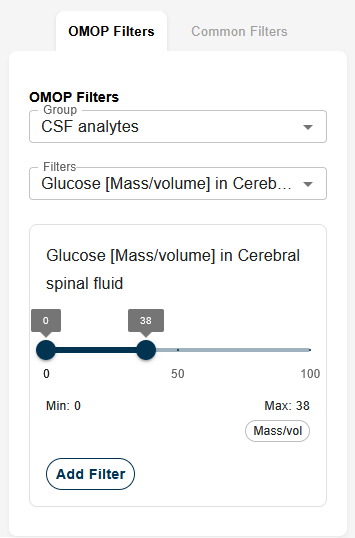
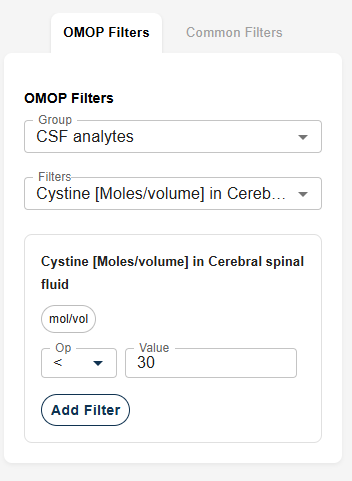
update omop images

diff --git a/src/components/ComponentConfiguration.tsx b/src/components/ComponentConfiguration.tsx
@@ -299,7 +299,7 @@ export default function ComponentConfiguration() {
       <Divider sx={{ my: 3 }} />
 
       <Typography variant="h5" gutterBottom>
-        Troubleshooting (plain language)
+        Troubleshooting
       </Typography>
       <Box component="ul" sx={{ pl: 3, color: "text.secondary" }}>
         <li><strong>I changed the file but nothing happens</strong> — hard refresh; ensure the file is at <code>public/config/config.json</code>.</li>